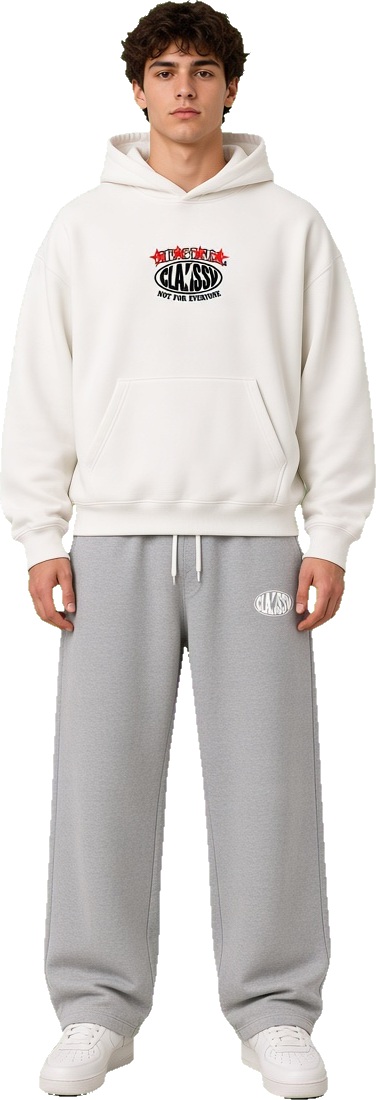
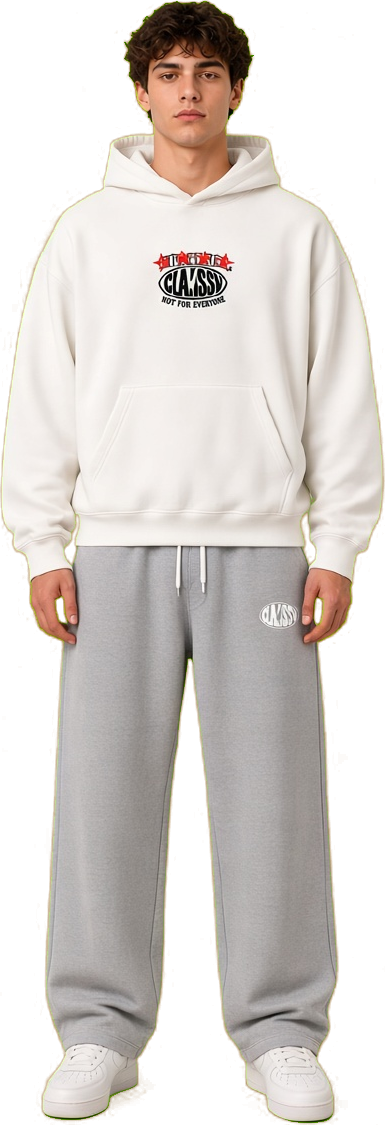
Use Black and European Try the Look models so the carousel no longer shows East Asian faces.

diff --git a/src/components/HomeTryTheLook.tsx b/src/components/HomeTryTheLook.tsx
@@ -105,9 +105,9 @@ const LOOK_PLAN: { id: string; name: string; image: string; top: string; bottom:
   { id: "night-walk", name: "Night Walk", image: "/images/looks/night-walk.png", top: "hoodie-cropped-black", bottom: "baggy-jogger-black" },
   { id: "ash-hour", name: "Ash Hour", image: "/images/looks/ash-hour.png", top: "hoodie-cropped-white", bottom: "baggy-jogger-grey" },
   { id: "vandal", name: "Vandal", image: "/images/looks/vandal.png", top: "vandal-tee-black", bottom: "baggy-jogger-black" },
-  { id: "violet", name: "Violet", image: "/images/looks/violet.png", top: "violet-tee-purple", bottom: "baggy-jogger-grey" },
-  { id: "crop-black", name: "Crop Black", image: "/images/looks/crop-black.png", top: "hoodie-cropped-black", bottom: "baggy-jogger-grey" },
-  { id: "street-grey", name: "Street Grey", image: "/images/looks/street-grey.png", top: "hoodie-cropped-white", bottom: "baggy-jogger-black" },
+  { id: "violet", name: "Violet", image: "/images/looks/violet-v2.png", top: "violet-tee-purple", bottom: "baggy-jogger-grey" },
+  { id: "crop-black", name: "Crop Black", image: "/images/looks/crop-black-v2.png", top: "hoodie-cropped-black", bottom: "baggy-jogger-grey" },
+  { id: "street-grey", name: "Street Grey", image: "/images/looks/street-grey-v2.png", top: "hoodie-cropped-white", bottom: "baggy-jogger-black" },
 ];
 
 const SPRING = 14.5;
